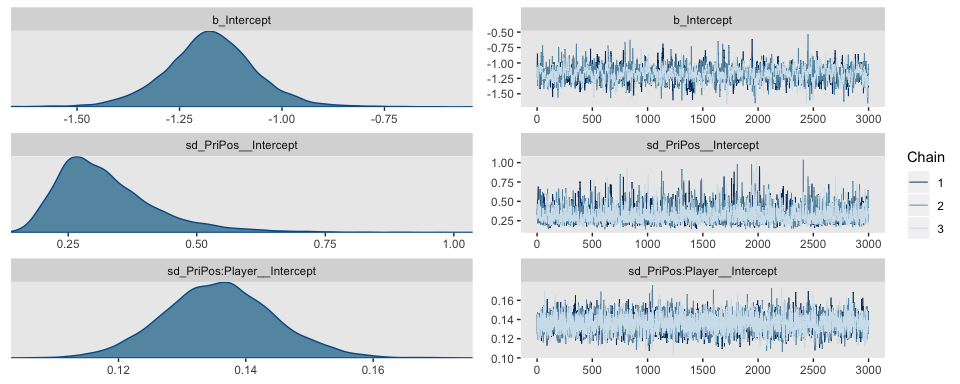
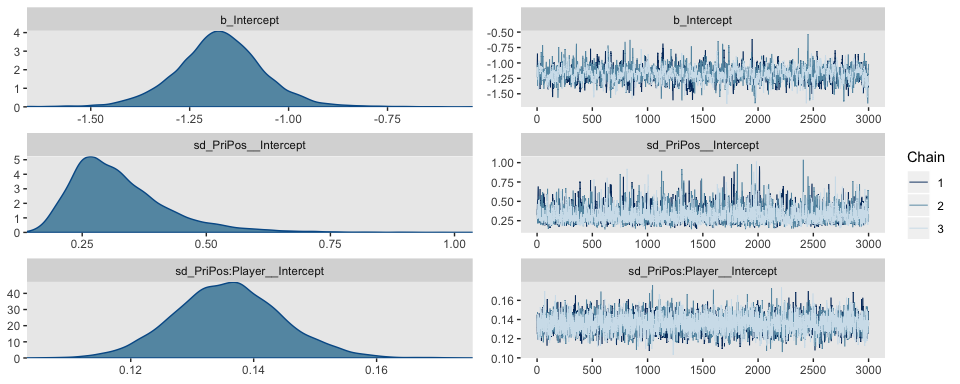
09, version 0.9.1—update for bayesplot 1.6.0 and tidybayes 1.0.1

diff --git a/09.md b/09.md
@@ -1,7 +1,7 @@
 Chapter 09. Hierarchical Models
 ================
 A Solomon Kurz
-2018-08-02
+2018-08-12
 
 Hierarchical Models
 ===================
@@ -346,7 +346,7 @@ post <- posterior_samples(fit1, add_chain = T)
 library(bayesplot)
 ```
 
-In chapter 8 we covered how the current version of bayesplot appears to switch the default theme for ggplot2 plots from `theme_grey()` to `theme_classic()`. A quick `theme_set()` function can switch things back. Since I prefer to plot without gridlines, here we'll slip in a line on `panel.grid` to suppress them by default for the remainder of this chapter.
+One of the nice things about bayesplot is it returns ggplot2 objects. As such, we can amend their theme settings to be consistent with our other ggplot2 plots. The `theme_set()` function will make that particularly easy. And since I prefer to plot without gridlines, we'll slip in a line on `panel.grid` to suppress them by default for the remainder of this chapter.
 
 ``` r
 theme_set(theme_grey() +
@@ -402,7 +402,13 @@ We'll need `brms::inv_logit_scaled()` to convert the model parameters to predict
 
 ``` r
 library(tidybayes)
+```
 
+    ## NOTE: As of tidybayes version 1.0, several functions, arguments, and output column names
+    ##       have undergone significant name changes in order to adopt a unified naming scheme.
+    ##       See help('tidybayes-deprecated') for more information.
+
+``` r
 post_small <-
   post %>% 
   # converting the linter model to the probability space with `inv_logit_scaled()`
@@ -425,7 +431,7 @@ post_small %>%
   geom_histogram(color = "grey92", fill = "grey67",
                  size = .2, bins = 30) +
   stat_pointintervalh(aes(y = 0), 
-                      point_interval = mode_hdi, .prob = .95) +
+                      point_interval = mode_hdi, .width = .95) +
   scale_y_continuous(NULL, breaks = NULL) +
   xlab(NULL) +
   facet_wrap(~key, scales = "free", ncol = 3)
@@ -443,16 +449,15 @@ post_small %>%
   mutate_if(is.double, round, digits = 3)
 ```
 
-    ## # A tibble: 6 x 5
-    ## # Groups:   key [6]
-    ##   key                    value conf.low conf.high .prob
-    ##   <chr>                  <dbl>    <dbl>     <dbl> <dbl>
-    ## 1 theta[1]               0.429    0.209     0.52   0.95
-    ## 2 theta[1] - theta[14]  -0.002   -0.274     0.121  0.95
-    ## 3 theta[1] - theta[28]  -0.01    -0.411     0.073  0.95
-    ## 4 theta[14]              0.439    0.285     0.580  0.95
-    ## 5 theta[14] - theta[28] -0.003   -0.319     0.112  0.95
-    ## 6 theta[28]              0.453    0.357     0.691  0.95
+    ## # A tibble: 6 x 7
+    ##   key                    value .lower .upper .width .point .interval
+    ##   <chr>                  <dbl>  <dbl>  <dbl>  <dbl> <chr>  <chr>    
+    ## 1 theta[1]               0.429  0.209  0.52    0.95 mode   hdi      
+    ## 2 theta[1] - theta[14]  -0.002 -0.274  0.121   0.95 mode   hdi      
+    ## 3 theta[1] - theta[28]  -0.01  -0.411  0.073   0.95 mode   hdi      
+    ## 4 theta[14]              0.439  0.285  0.580   0.95 mode   hdi      
+    ## 5 theta[14] - theta[28] -0.003 -0.319  0.112   0.95 mode   hdi      
+    ## 6 theta[28]              0.453  0.357  0.691   0.95 mode   hdi
 
 And here are the Figure 9.10 scatter plots.
 
@@ -496,6 +501,7 @@ labels <-
   post %>% 
   transmute(theta = b_Intercept %>% inv_logit_scaled()) %>%
   mode_hdi() %>% 
+  select(theta:.upper) %>% 
   gather() %>% 
   mutate(label = value %>% round(3) %>% as.character) %>% 
   slice(1:3)
@@ -507,7 +513,7 @@ post %>%
   geom_histogram(color = "grey92", fill = "grey67",
                  size = .2, bins = 30) +
   stat_pointintervalh(aes(y = 0), 
-                      point_interval = mode_hdi, .prob = .95) +
+                      point_interval = mode_hdi, .width = .95) +
   scale_x_continuous(breaks = labels$value,
                      labels = labels$label) +  
   scale_y_continuous(NULL, breaks = NULL) +
@@ -533,6 +539,7 @@ sigmas <-
 labels <-
   sigmas %>% 
   mode_hdi(sd) %>% 
+  select(sd:.upper) %>% 
   gather() %>% 
   mutate(label = value %>% round(3) %>% as.character) %>% 
   slice(1:3)
@@ -543,7 +550,7 @@ sigmas %>%
   geom_histogram(color = "grey92", fill = "grey67",
                  size = .2, bins = 30, boundary = 0) +
   stat_pointintervalh(aes(y = 0), 
-                      point_interval = mode_hdi, .prob = .95) +
+                      point_interval = mode_hdi, .width = .95) +
   scale_x_continuous(breaks = labels$value,
                      labels = labels$label) +  
   scale_y_continuous(NULL, breaks = NULL) +
@@ -1059,7 +1066,7 @@ make_histogram <- function(data, mapping, title, xlim, ...){
   geom_histogram(fill = "grey67", color = "grey92", size = .2,
                 bins = 30) +
   stat_pointintervalh(aes(y = 0), 
-                      point_interval = mode_hdi, .prob = .95) +
+                      point_interval = mode_hdi, .width = .95) +
   scale_y_continuous(NULL, breaks = NULL) +
   labs(title = title,
        x = expression(theta)) +
@@ -1203,15 +1210,14 @@ coef_small %>%
   mutate_if(is.double, round, digits = 3)
 ```
 
-    ## # A tibble: 5 x 5
-    ## # Groups:   key [5]
-    ##   key                 value conf.low conf.high .prob
-    ##   <chr>               <dbl>    <dbl>     <dbl> <dbl>
-    ## 1 1st Base            0.253    0.245     0.262  0.95
-    ## 2 Catcher             0.241    0.232     0.249  0.95
-    ## 3 Catcher - 1st Base -0.012   -0.024    -0.001  0.95
-    ## 4 Pitcher             0.13     0.12      0.14   0.95
-    ## 5 Pitcher - Catcher  -0.111   -0.124    -0.098  0.95
+    ## # A tibble: 5 x 7
+    ##   key                 value .lower .upper .width .point .interval
+    ##   <chr>               <dbl>  <dbl>  <dbl>  <dbl> <chr>  <chr>    
+    ## 1 1st Base            0.253  0.245  0.262   0.95 mode   hdi      
+    ## 2 Catcher             0.241  0.232  0.249   0.95 mode   hdi      
+    ## 3 Catcher - 1st Base -0.012 -0.024 -0.001   0.95 mode   hdi      
+    ## 4 Pitcher             0.13   0.12   0.14    0.95 mode   hdi      
+    ## 5 Pitcher - Catcher  -0.111 -0.124 -0.098   0.95 mode   hdi
 
 While we're at it, we should capitalize on the opportunity to show how these results are the same as those derived from our `posterior_samples()` approach, above.
 
@@ -1223,15 +1229,14 @@ post_small %>%
   mutate_if(is.double, round, digits = 3)
 ```
 
-    ## # A tibble: 5 x 5
-    ## # Groups:   key [5]
-    ##   key                 value conf.low conf.high .prob
-    ##   <chr>               <dbl>    <dbl>     <dbl> <dbl>
-    ## 1 1st Base            0.253    0.245     0.262  0.95
-    ## 2 Catcher             0.241    0.232     0.249  0.95
-    ## 3 Catcher - 1st Base -0.012   -0.024    -0.001  0.95
-    ## 4 Pitcher             0.13     0.12      0.14   0.95
-    ## 5 Pitcher - Catcher  -0.111   -0.124    -0.098  0.95
+    ## # A tibble: 5 x 7
+    ##   key                 value .lower .upper .width .point .interval
+    ##   <chr>               <dbl>  <dbl>  <dbl>  <dbl> <chr>  <chr>    
+    ## 1 1st Base            0.253  0.245  0.262   0.95 mode   hdi      
+    ## 2 Catcher             0.241  0.232  0.249   0.95 mode   hdi      
+    ## 3 Catcher - 1st Base -0.012 -0.024 -0.001   0.95 mode   hdi      
+    ## 4 Pitcher             0.13   0.12   0.14    0.95 mode   hdi      
+    ## 5 Pitcher - Catcher  -0.111 -0.124 -0.098   0.95 mode   hdi
 
 For Figures 9.15 and 9.16, Kruschke drilled down further into the posterior. To drill along with him, we'll take the oportunity to showcase `fitted()`, the third way brms affords us for plotting group-level parameters.
 
@@ -1424,22 +1429,21 @@ fitted_players %>%
   mutate_if(is.double, round, digits = 3)
 ```
 
-    ## # A tibble: 12 x 5
-    ## # Groups:   key [12]
-    ##    key                               value conf.low conf.high .prob
-    ##    <chr>                             <dbl>    <dbl>     <dbl> <dbl>
-    ##  1 Andrew McCutchen                  0.305    0.276     0.337  0.95
-    ##  2 Andrew McCutchen - Brett Jackson  0.072    0.018     0.124  0.95
-    ##  3 Brett Jackson                     0.231    0.194     0.277  0.95
-    ##  4 Bruce Chen                        0.13     0.101     0.164  0.95
-    ##  5 Ichiro Suzuki                     0.276    0.246     0.304  0.95
-    ##  6 Kyle Blanks                       0.251    0.202     0.301  0.95
-    ##  7 Kyle Blanks - Bruce Chen          0.124    0.062     0.18   0.95
-    ##  8 Mike Leake                        0.148    0.117     0.184  0.95
-    ##  9 Mike Leake - Wandy Rodriguez      0.024   -0.016     0.068  0.95
-    ## 10 ShinSoo Choo                      0.273    0.246     0.305  0.95
-    ## 11 ShinSoo Choo - Ichiro Suzuki     -0.003   -0.042     0.041  0.95
-    ## 12 Wandy Rodriguez                   0.12     0.097     0.152  0.95
+    ## # A tibble: 12 x 7
+    ##    key                         value .lower .upper .width .point .interval
+    ##    <chr>                       <dbl>  <dbl>  <dbl>  <dbl> <chr>  <chr>    
+    ##  1 Andrew McCutchen            0.305  0.276  0.337   0.95 mode   hdi      
+    ##  2 Andrew McCutchen - Brett …  0.072  0.018  0.124   0.95 mode   hdi      
+    ##  3 Brett Jackson               0.231  0.194  0.277   0.95 mode   hdi      
+    ##  4 Bruce Chen                  0.13   0.101  0.164   0.95 mode   hdi      
+    ##  5 Ichiro Suzuki               0.276  0.246  0.304   0.95 mode   hdi      
+    ##  6 Kyle Blanks                 0.251  0.202  0.301   0.95 mode   hdi      
+    ##  7 Kyle Blanks - Bruce Chen    0.124  0.062  0.18    0.95 mode   hdi      
+    ##  8 Mike Leake                  0.148  0.117  0.184   0.95 mode   hdi      
+    ##  9 Mike Leake - Wandy Rodrig…  0.024 -0.016  0.068   0.95 mode   hdi      
+    ## 10 ShinSoo Choo                0.273  0.246  0.305   0.95 mode   hdi      
+    ## 11 ShinSoo Choo - Ichiro Suz… -0.003 -0.042  0.041   0.95 mode   hdi      
+    ## 12 Wandy Rodriguez             0.12   0.097  0.152   0.95 mode   hdi
 
 References
 ----------
@@ -1468,12 +1472,10 @@ sessionInfo()
     ## [1] stats     graphics  grDevices utils     datasets  methods   base     
     ## 
     ## other attached packages:
-    ##  [1] gridExtra_2.3         tidybayes_0.12.1.9000 bayesplot_1.5.0      
-    ##  [4] brms_2.4.0            Rcpp_0.12.18          bindrcpp_0.2.2       
-    ##  [7] ggridges_0.5.0        forcats_0.3.0         stringr_1.3.1        
-    ## [10] dplyr_0.7.6           purrr_0.2.5           readr_1.1.1          
-    ## [13] tidyr_0.8.1           tibble_1.4.2          ggplot2_3.0.0        
-    ## [16] tidyverse_1.2.1      
+    ##  [1] gridExtra_2.3   tidybayes_1.0.1 bayesplot_1.6.0 brms_2.4.0     
+    ##  [5] Rcpp_0.12.18    bindrcpp_0.2.2  ggridges_0.5.0  forcats_0.3.0  
+    ##  [9] stringr_1.3.1   dplyr_0.7.6     purrr_0.2.5     readr_1.1.1    
+    ## [13] tidyr_0.8.1     tibble_1.4.2    ggplot2_3.0.0   tidyverse_1.2.1
     ## 
     ## loaded via a namespace (and not attached):
     ##  [1] nlme_3.1-137              matrixStats_0.54.0       
@@ -1513,14 +1515,13 @@ sessionInfo()
     ## [69] haven_1.1.2               hms_0.4.2                
     ## [71] knitr_1.20                pillar_1.2.3             
     ## [73] igraph_1.2.1              markdown_0.8             
-    ## [75] shinystan_2.5.0           codetools_0.2-15         
-    ## [77] reshape2_1.4.3            stats4_3.5.1             
-    ## [79] rstantools_1.5.0          glue_1.2.0               
-    ## [81] evaluate_0.10.1           modelr_0.1.2             
-    ## [83] httpuv_1.4.4.2            cellranger_1.1.0         
-    ## [85] gtable_0.2.0              assertthat_0.2.0         
-    ## [87] mime_0.5                  xtable_1.8-2             
-    ## [89] broom_0.4.5               coda_0.19-1              
-    ## [91] later_0.7.3               rsconnect_0.8.8          
-    ## [93] viridisLite_0.3.0         shinythemes_1.1.1        
-    ## [95] bridgesampling_0.4-0
+    ## [75] shinystan_2.5.0           reshape2_1.4.3           
+    ## [77] stats4_3.5.1              rstantools_1.5.0         
+    ## [79] glue_1.2.0                evaluate_0.10.1          
+    ## [81] modelr_0.1.2              httpuv_1.4.4.2           
+    ## [83] cellranger_1.1.0          gtable_0.2.0             
+    ## [85] assertthat_0.2.0          mime_0.5                 
+    ## [87] xtable_1.8-2              broom_0.4.5              
+    ## [89] coda_0.19-1               later_0.7.3              
+    ## [91] rsconnect_0.8.8           viridisLite_0.3.0        
+    ## [93] shinythemes_1.1.1         bridgesampling_0.4-0
